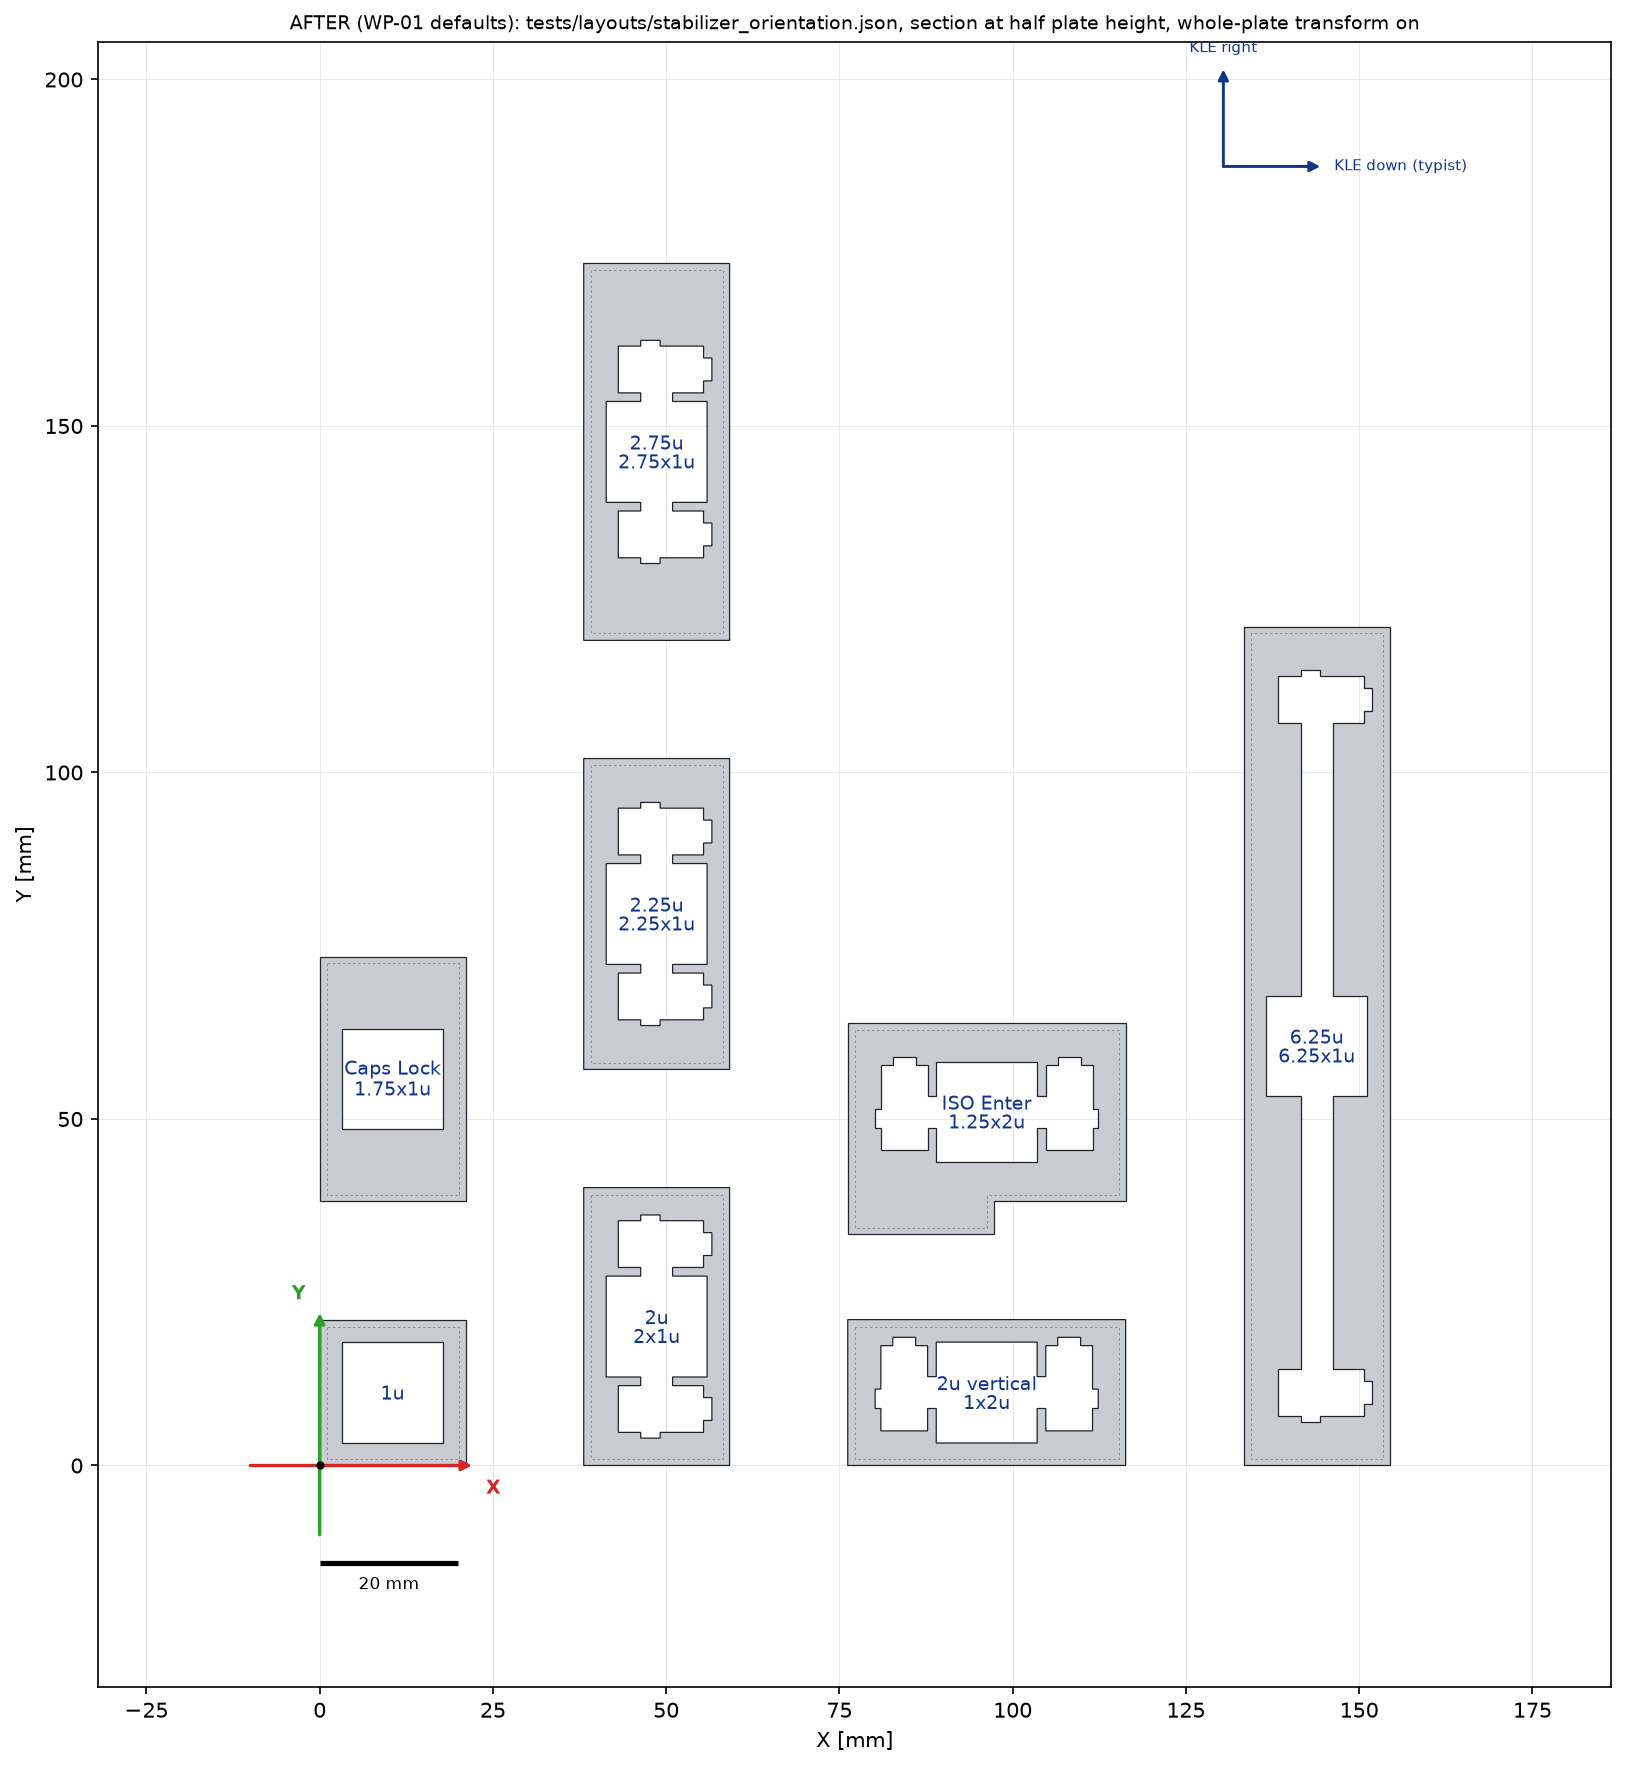
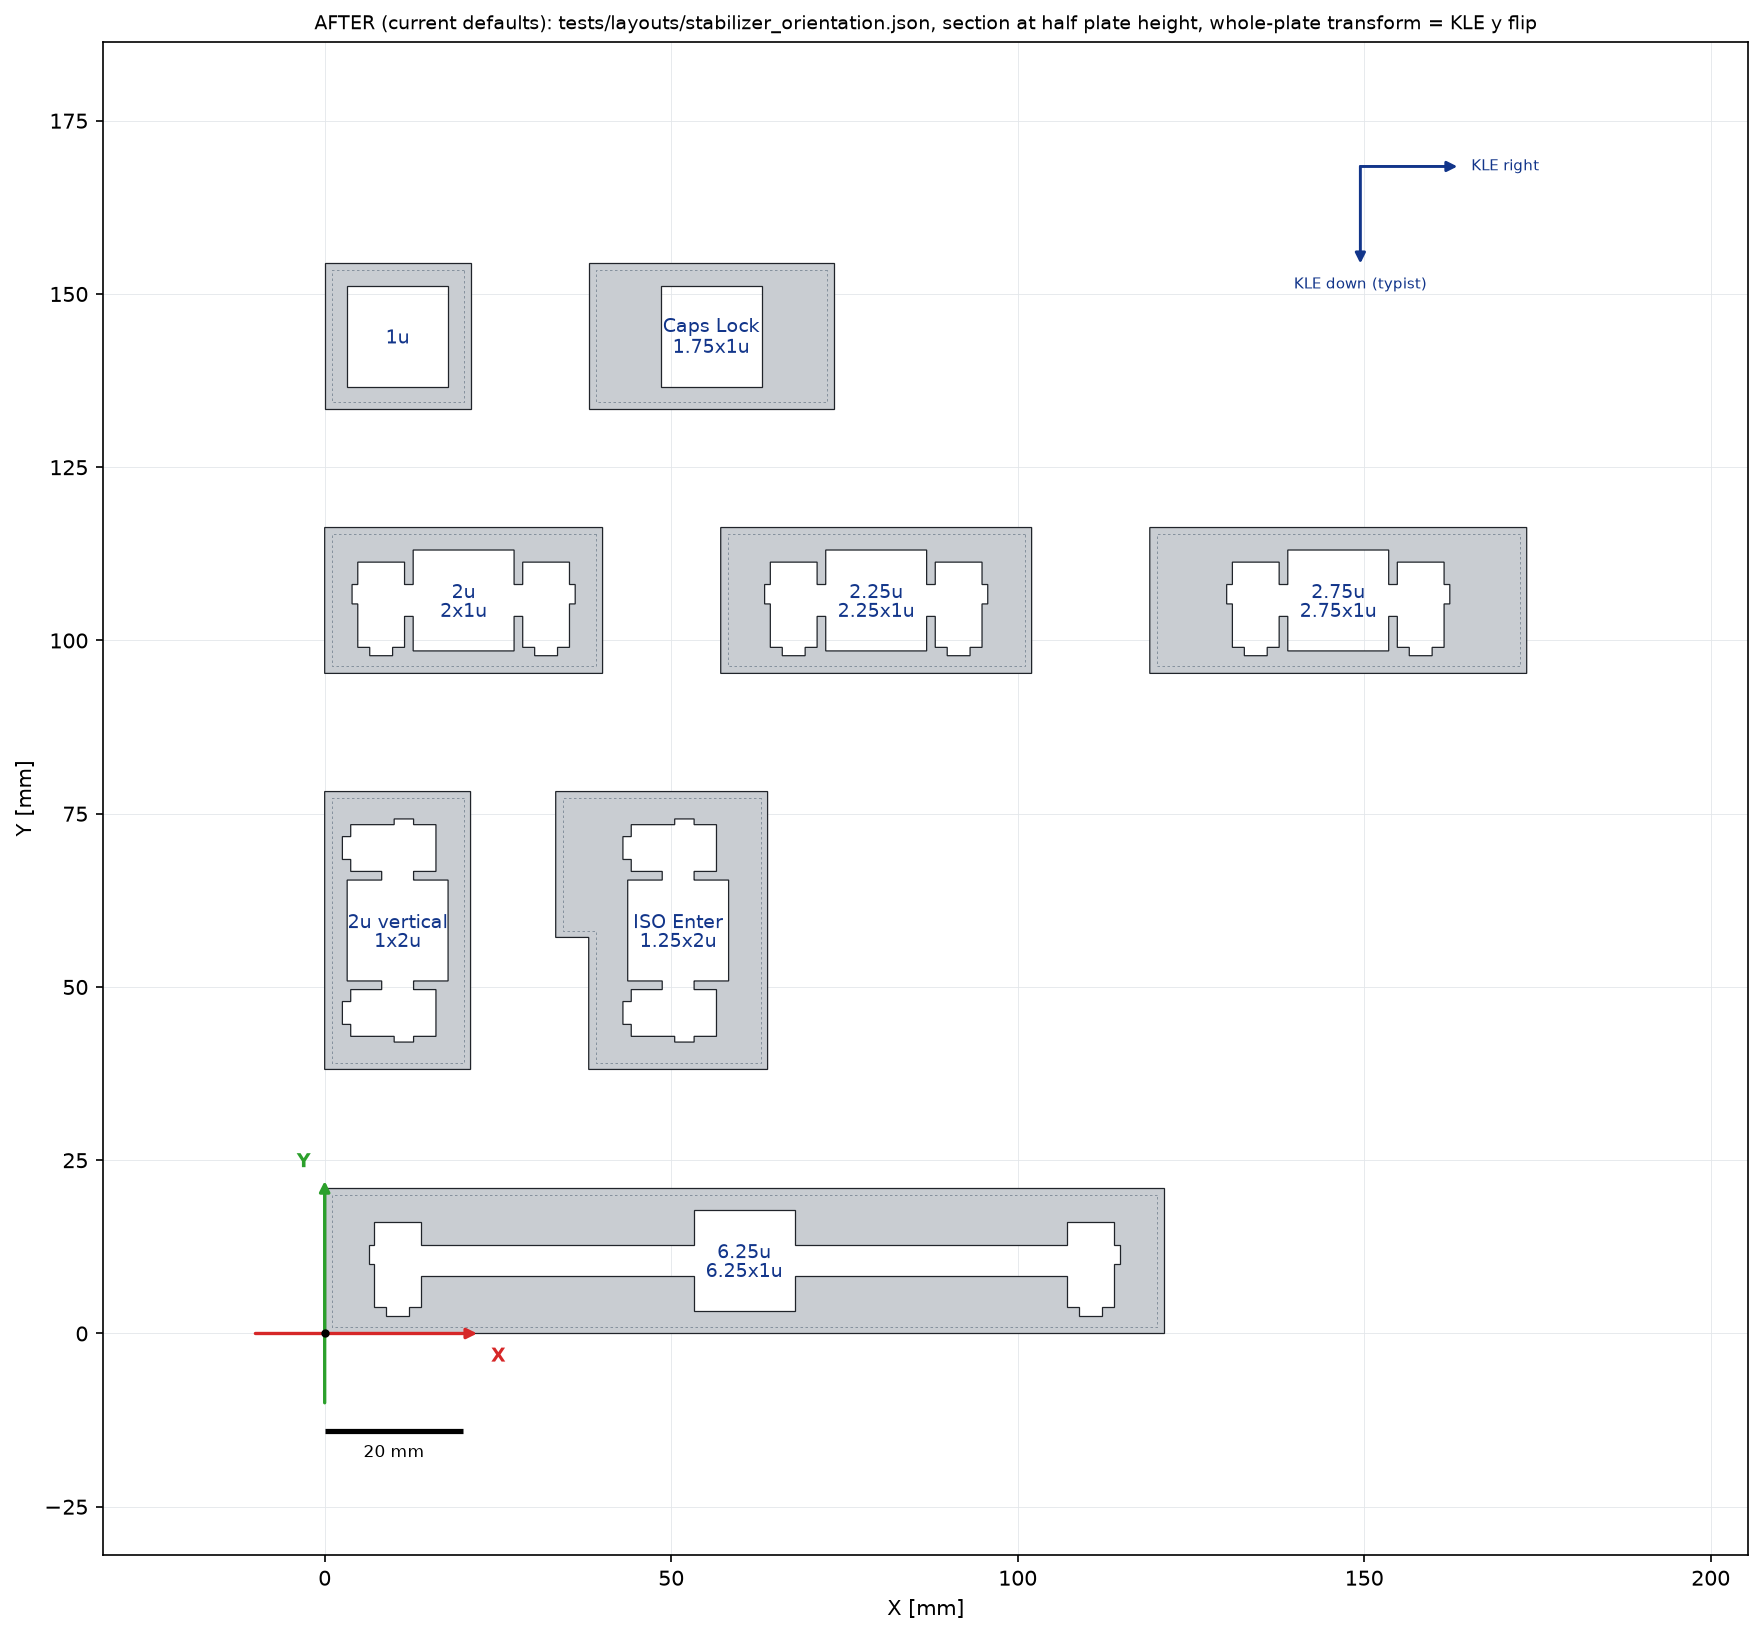
docs: update README, CHANGELOG and preview_after for the adjusted defaults

diff --git a/README.md b/README.md
@@ -326,7 +326,7 @@ The stabilizer cutouts are asymmetric, so each of them can be turned in 90° ste
 
 ```powershell
 --stab-rotation-horizontal 180
---stab-rotation-vertical 90
+--stab-rotation-vertical 270
 --stab-rotation-spacebar 180
 ```
 
@@ -334,7 +334,9 @@ Allowed values are `0`, `90`, `180` and `270`. The values above are the defaults
 
 ### Whole-Plate Transform
 
-The generated plate is rotated by 90° around Z and mirrored along X, which gives the plate the same orientation as the layout seen from above (the KLE Y axis points down, CAD Y points up). The plate is then moved so that its bounding box starts at X = 0, Y = 0. The order is: stabilizer rotation first, then the whole-plate transform, then the move.
+KLE counts Y downwards (towards the typist), CAD counts Y upwards. The generated plate is therefore turned by 180° around Z and mirrored along X, which is the same as flipping the KLE Y axis: the plate is the layout as seen from above, with the typist side at low Y. The plate is then moved so that its bounding box starts at X = 0, Y = 0. The order is: stabilizer rotation first, then the whole-plate transform, then the move.
+
+The whole-plate rotation is `global_rotation` in `OrientationConfig` (`fat_plate_generator.py`). If you want the plate turned further, change it to `90` or `270`; `90` gives the transform used in the first version of this tool.
 
 To switch the transform off, for example to compare with older plates:
 

diff --git a/CHANGELOG.md b/CHANGELOG.md
@@ -12,6 +12,6 @@ All notable changes to this project are documented in this file.
 - Workflow files `AGENTS.md`, `ROADMAP.md`; `TODO.txt` was folded into `ROADMAP.md`.
 
 ### Changed
-- Stabilizer cutouts now follow the key direction. The templates were made horizontal in an earlier commit, but the generator still turned horizontal keys by 90° and left vertical keys at 0°. New defaults: horizontal 180°, vertical 90°, spacebar 180°.
-- The plate is rotated by 90° around Z, mirrored along X and moved so its bounding box starts at (0, 0), which replaces the manual Blender corrections. Existing plates are therefore turned and mirrored compared to earlier output.
+- Stabilizer cutouts now follow the key direction. The templates were made horizontal in an earlier commit, but the generator still turned horizontal keys by 90° and left vertical keys at 0°. Defaults: horizontal 180°, vertical 270°, spacebar 180°.
+- The plate is rotated by 180° around Z, mirrored along X (together this is the KLE Y flip) and moved so its bounding box starts at (0, 0), which replaces the manual Blender corrections. Existing plates are therefore mirrored compared to earlier output.
 - `generate()` is split into `build_plate_model()` and the STL export; key classification lives in `classify_key()`.
